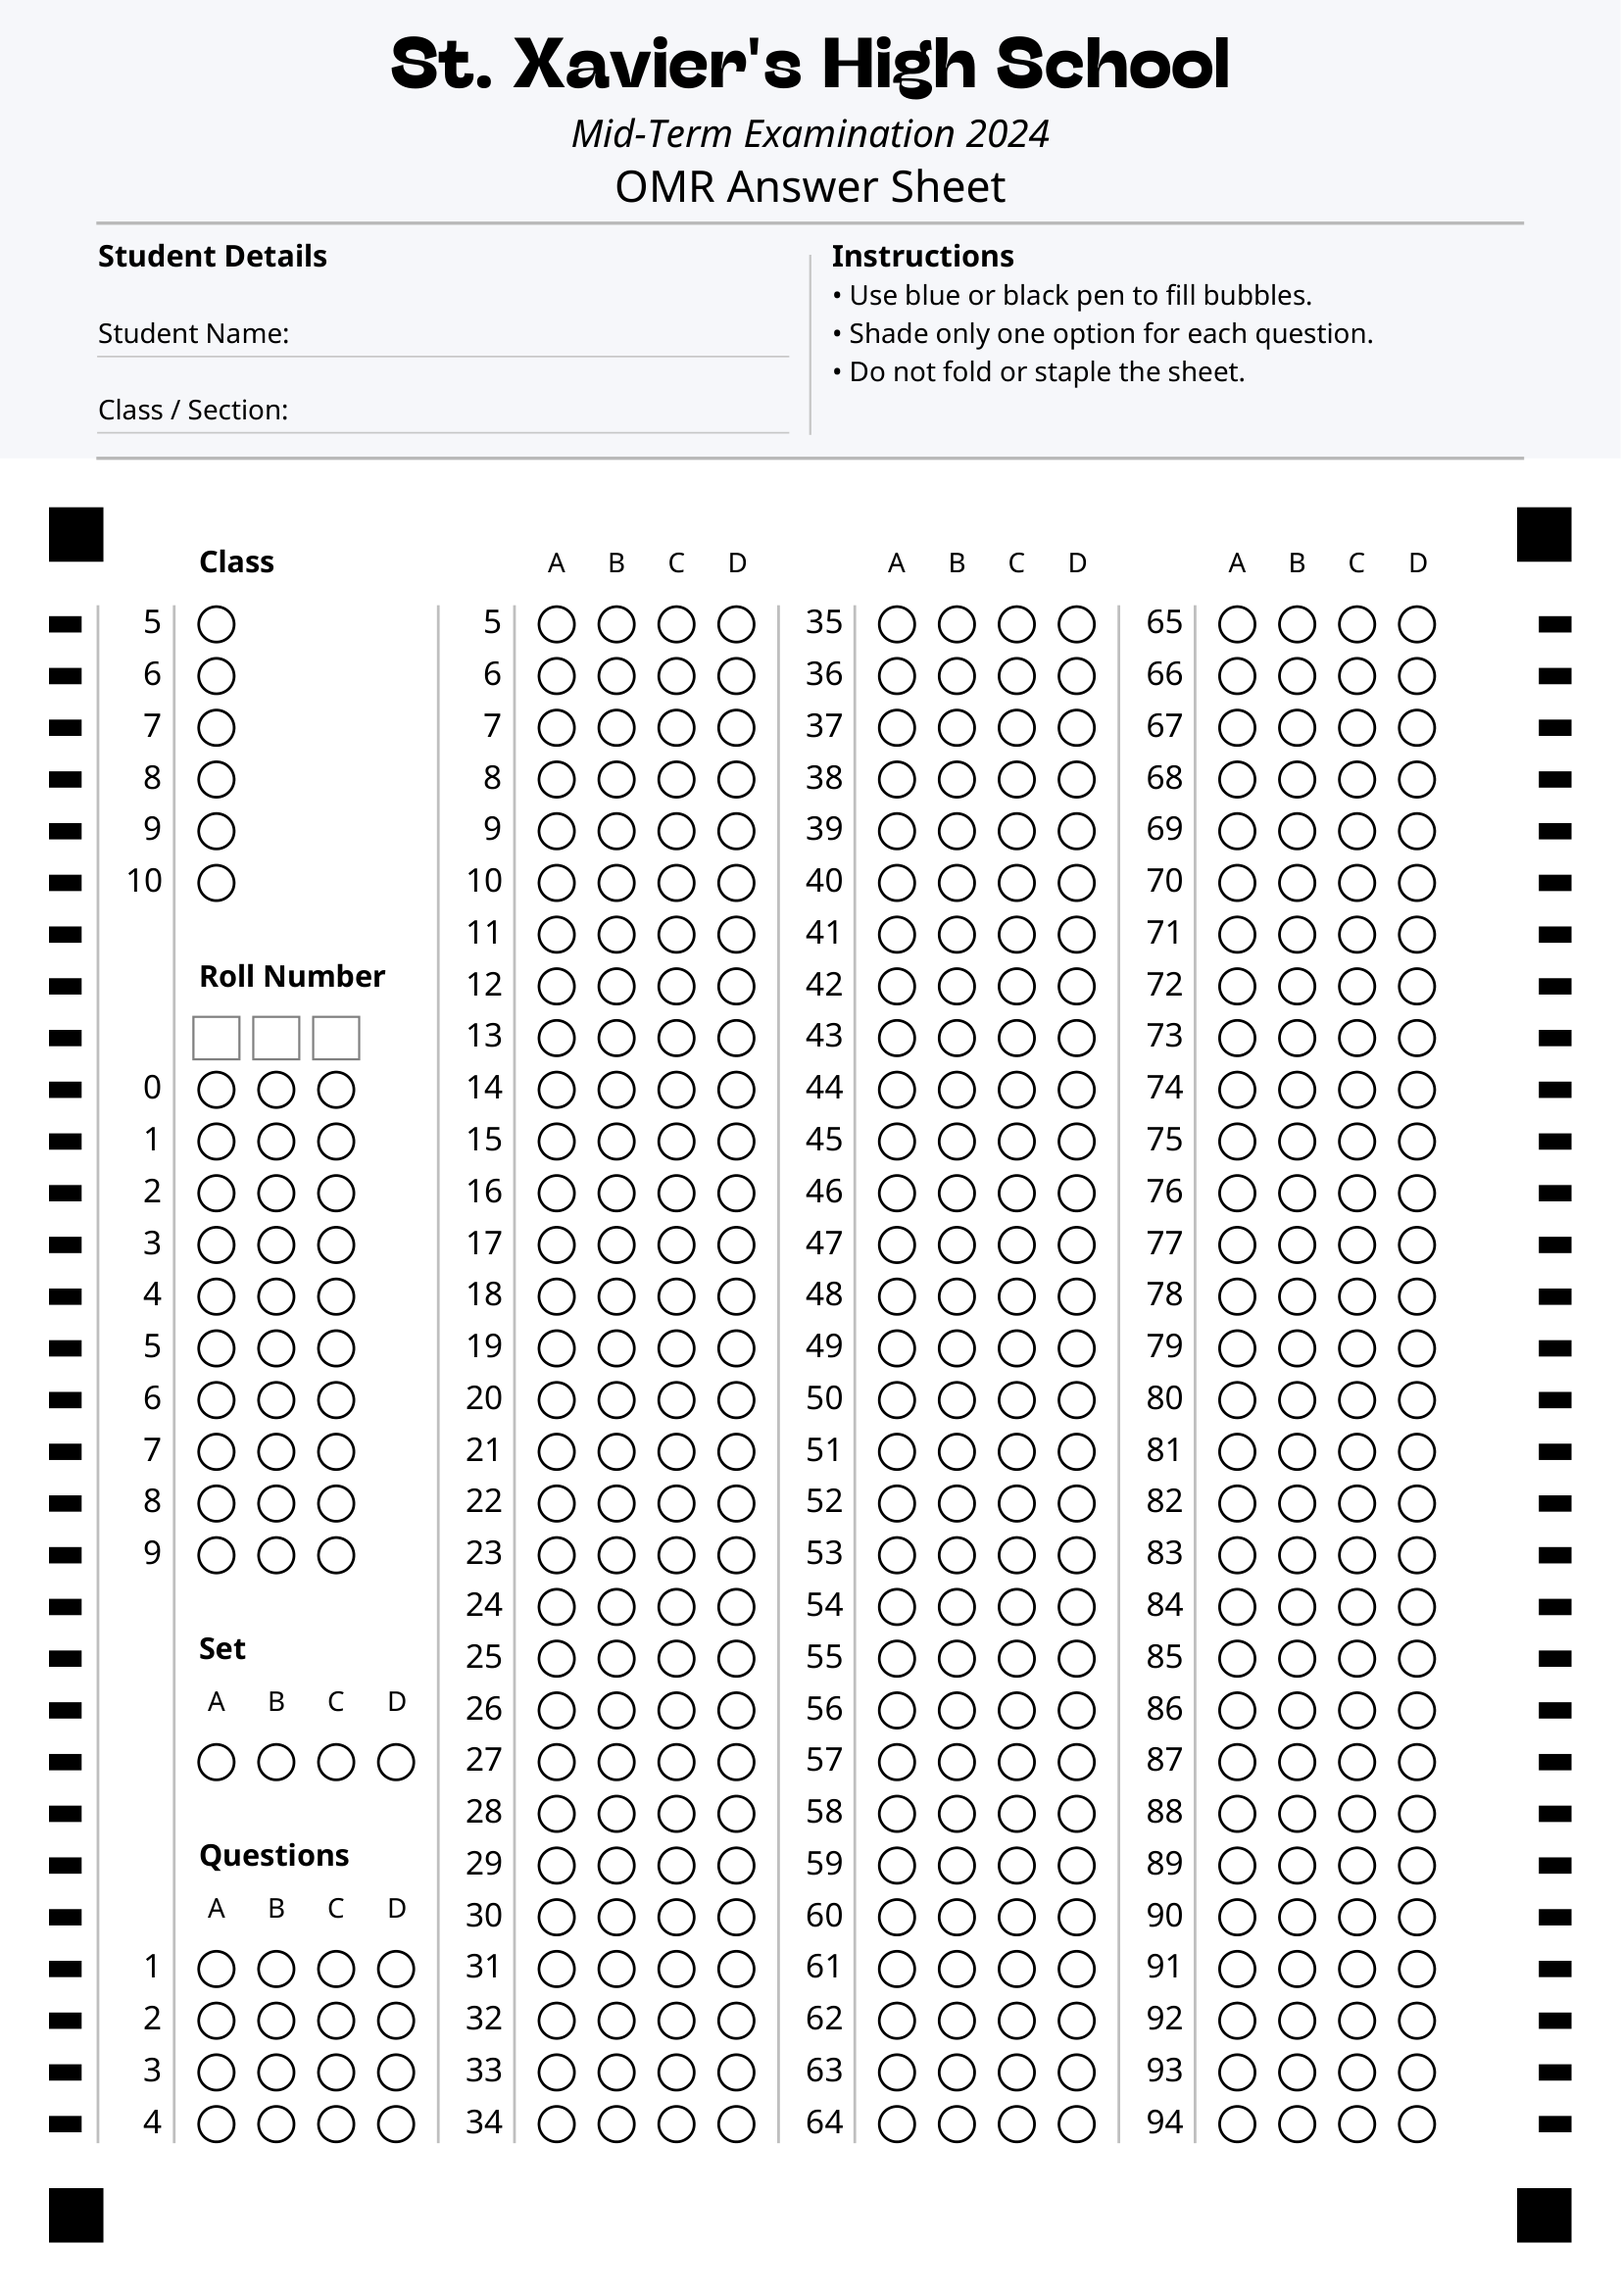
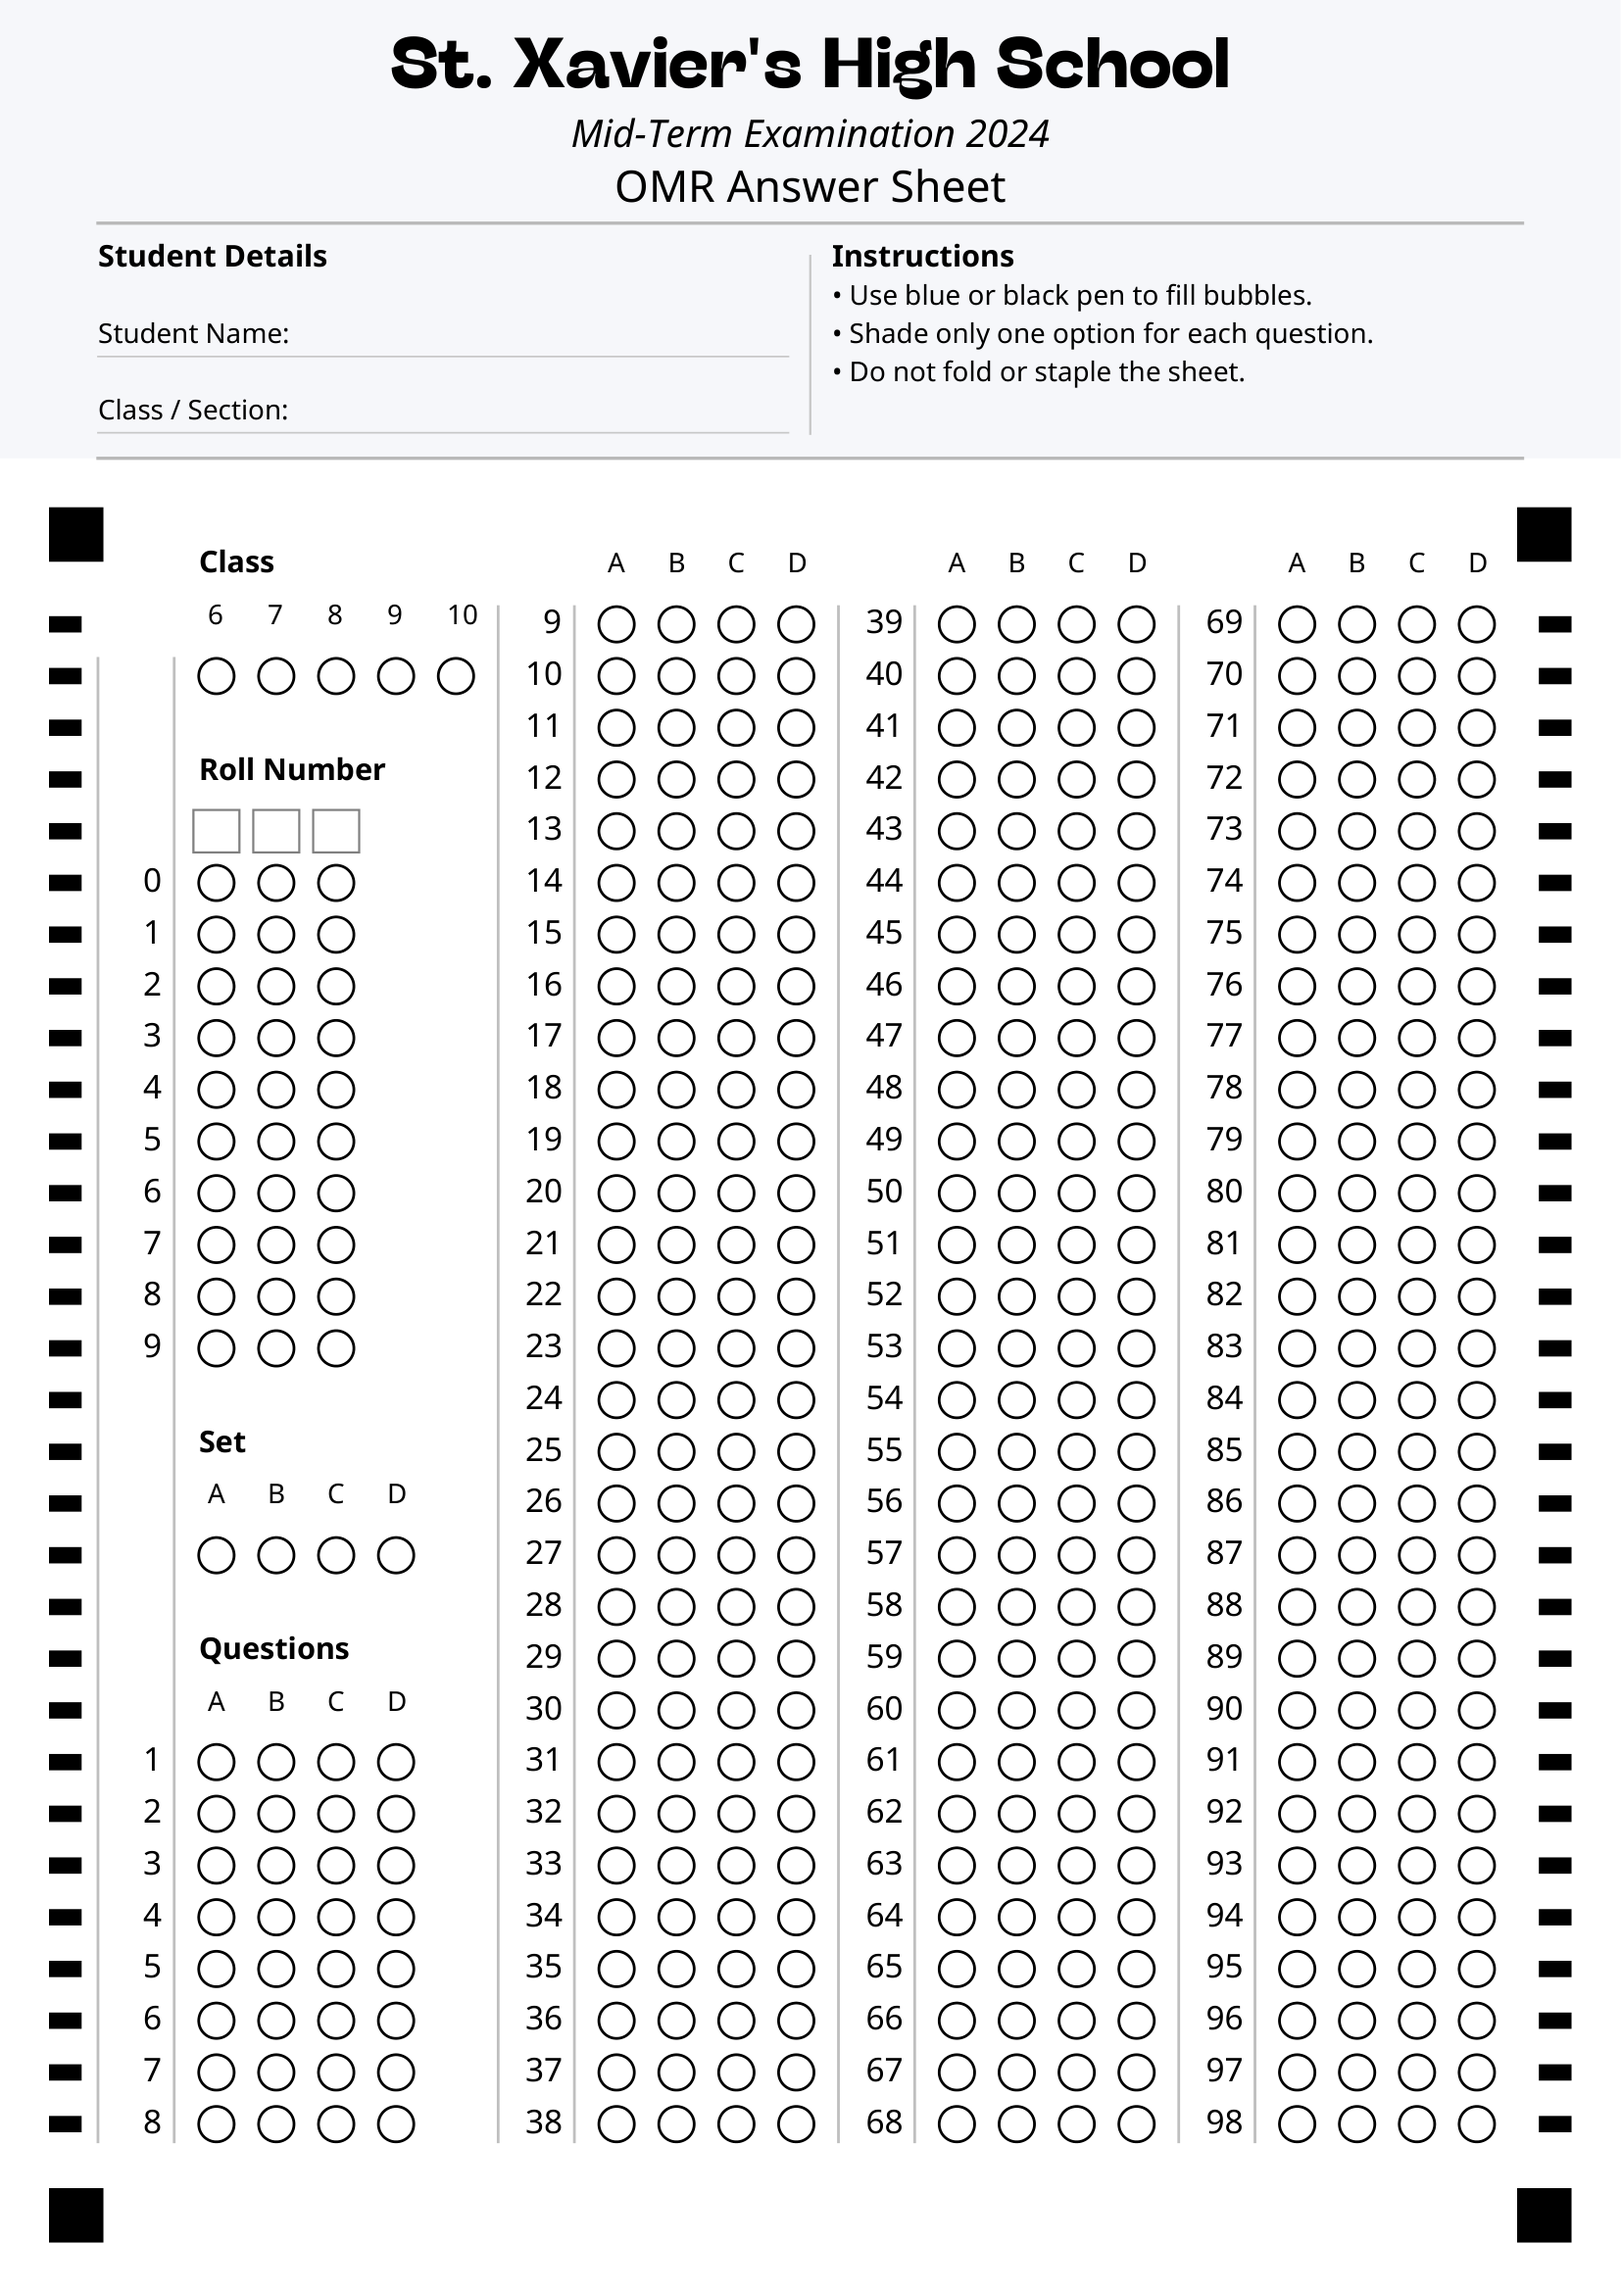
Convert Class section to horizontal layout and implement responsive columns
Changed Class section from vertical to horizontal layout:
- Class options now 6-10 (removed 5) displayed as single horizontal row
- Bubbles labeled with class numbers inside
- Frees ~4 rows in Column 1

Implemented responsive column width system:
- First column sized for max(Class=5, Roll=3, Set=4) = 5 bubbles
- Subsequent columns sized for Questions = 4 bubbles
- Dynamic overflow protection: columns added while space available
- Prevents overlap between Class section and adjacent columns

Results:
- 98 questions now fit (up from 94)
- No layout overlaps
- Optimal space utilization per column

diff --git a/omr_sheet_generator_new.py b/omr_sheet_generator_new.py
@@ -289,20 +289,31 @@ def draw_unified_bubble_section(
         row_centers.append(y)
         row_index += 1
 
-    # Calculate column width
-    max_options = max(1, sheet.roll_columns, 1, sheet.question_options)
-    column_width = layout.group_width(max_options)
+    # Calculate column widths (same logic as omr_layout.py)
+    first_column_options = max(sheet.class_options, sheet.roll_columns, sheet.set_options)
+    first_column_width = layout.group_width(first_column_options)
+    other_column_width = layout.group_width(sheet.question_options)
 
-    # Group bubbles by column
+    # Group bubbles by column and extract column origins
     columns: dict[int, List[BubbleGroup]] = {}
+    column_origins: dict[int, float] = {}
+
     for group in groups:
         col_idx = group.column_index or 0
         columns.setdefault(col_idx, []).append(group)
 
+        # Extract column origin from the first bubble in the group
+        if col_idx not in column_origins and group.bubbles:
+            # Calculate back from bubble x to column origin
+            first_bubble_x = group.bubbles[0].x
+            # Bubble x = column_origin + label_column_width + column_padding/2 + radius
+            column_origin = first_bubble_x - layout.radius - layout.column_padding / 2 - layout.label_column_width
+            column_origins[col_idx] = column_origin
+
     # Process each column
     for col_idx in sorted(columns.keys()):
         is_first_column = (col_idx == 0)
-        column_origin = geom.margin + col_idx * column_width
+        column_origin = column_origins.get(col_idx, geom.margin)
 
         # Get row allocations for this column
         row_allocations, _ = allocate_column_rows(section_specs, row_centers, is_first_column)
@@ -319,18 +330,32 @@ def draw_unified_bubble_section(
                 _text(pdf, geom, x_base, allocation.y_position, label_text)
 
             elif allocation.row_type == "headers":
-                # Draw option headers (A B C D)
+                # Draw option headers
                 pdf.set_font("Noto", size=10)
-                # Determine number of options based on section category
-                if allocation.section_category == "set":
-                    num_options = sheet.set_options
-                else:  # questions
-                    num_options = sheet.question_options
-                ascii_offsets = [chr(ord("A") + opt) for opt in range(num_options)]
                 x_bubble_base = x_base + layout.radius
-                for opt in range(num_options):
-                    x = x_bubble_base + opt * (layout.diameter + layout.option_gap)
-                    _text(pdf, geom, x - 3.25, allocation.y_position, ascii_offsets[opt])
+
+                # Determine headers based on section category
+                if allocation.section_category == "class":
+                    # Class headers: 6 7 8 9 10
+                    class_numbers = [6, 7, 8, 9, 10]
+                    for opt_idx, class_num in enumerate(class_numbers):
+                        x = x_bubble_base + opt_idx * (layout.diameter + layout.option_gap)
+                        # Center single digit under bubble
+                        _text(pdf, geom, x - 3.25, allocation.y_position, str(class_num))
+                elif allocation.section_category == "set":
+                    # Set headers: A B C D
+                    num_options = sheet.set_options
+                    ascii_offsets = [chr(ord("A") + opt) for opt in range(num_options)]
+                    for opt in range(num_options):
+                        x = x_bubble_base + opt * (layout.diameter + layout.option_gap)
+                        _text(pdf, geom, x - 3.25, allocation.y_position, ascii_offsets[opt])
+                else:  # questions
+                    # Question headers: A B C D
+                    num_options = sheet.question_options
+                    ascii_offsets = [chr(ord("A") + opt) for opt in range(num_options)]
+                    for opt in range(num_options):
+                        x = x_bubble_base + opt * (layout.diameter + layout.option_gap)
+                        _text(pdf, geom, x - 3.25, allocation.y_position, ascii_offsets[opt])
 
     # Draw write-in boxes for roll number
     if boxes:
@@ -367,7 +392,7 @@ def draw_unified_bubble_section(
     pdf.set_draw_color(192, 192, 192)
     pdf.set_line_width(1)
     for col, (min_y, max_y) in column_y_ranges.items():
-        column_origin = geom.margin + col * column_width
+        column_origin = column_origins.get(col, geom.margin)
         left_line_x = column_origin
         right_line_x = column_origin + layout.label_column_width
         _line(pdf, geom, left_line_x, min_y, left_line_x, max_y)
@@ -383,7 +408,8 @@ def draw_unified_bubble_section(
         if not group.bubbles:
             continue
 
-        column_origin = geom.margin + (group.column_index or 0) * column_width
+        col_idx = group.column_index or 0
+        column_origin = column_origins.get(col_idx, geom.margin)
         label_end_x = column_origin + layout.label_column_width - gap_before_bubble
 
         # Draw row label

diff --git a/omr_layout.py b/omr_layout.py
@@ -146,10 +146,11 @@ def build_section_specifications(sheet: SheetLayout) -> List[SectionSpec]:
         SectionSpec(
             category="class",
             label="Class",
-            bubble_rows=sheet.class_options,
+            bubble_rows=1,  # Single row with all options horizontal
             has_label_row=True,
             has_spacer_after=True,
-            has_special_row=False,
+            has_special_row=True,  # Number headers (6 7 8 9 10) above bubbles
+            special_row_position="before",
         ),
         SectionSpec(
             category="roll",
@@ -334,25 +335,41 @@ def generate_all_bubble_coordinates(
     if not row_centers:
         return [], [], 0
 
-    # Calculate column width based on the widest section
-    max_options = max(
-        1,  # class (single option per row)
-        sheet.roll_columns,
-        1,  # set (single option per row)
-        sheet.question_options
-    )
-    column_width = layout.group_width(max_options)
+    # Calculate column widths responsively
+    # First column needs to fit: Class(5), Roll(3), Set(4) → max = 5
+    first_column_options = max(sheet.class_options, sheet.roll_columns, sheet.set_options)
+    first_column_width = layout.group_width(first_column_options)
+
+    # Subsequent columns only have Questions(4)
+    other_column_width = layout.group_width(sheet.question_options)
+
     available_width = geom.width - 2 * geom.margin
-    num_columns = max(1, int(available_width // column_width))
 
     all_groups: List[BubbleGroup] = []
     all_boxes: List[BoxCoordinate] = []
     question_counter = 1
 
+    # Track column positions dynamically
+    column_positions: List[float] = []
+    current_x = geom.margin
+
+    # Add first column if it fits
+    if first_column_width <= available_width:
+        column_positions.append(current_x)
+        current_x += first_column_width
+    else:
+        # If even first column doesn't fit, we can't create any layout
+        print(f"Warning: First column width ({first_column_width:.1f}pt) exceeds available width ({available_width:.1f}pt)")
+        return [], [], 0
+
+    # Add subsequent columns while they fit
+    while current_x + other_column_width <= geom.margin + available_width:
+        column_positions.append(current_x)
+        current_x += other_column_width
+
     # Process each column
-    for col_idx in range(num_columns):
+    for col_idx, column_origin in enumerate(column_positions):
         is_first_column = (col_idx == 0)
-        column_origin = geom.margin + col_idx * column_width
 
         # Allocate rows for this column
         row_allocations, question_rows_in_col = allocate_column_rows(
@@ -410,13 +427,15 @@ def create_bubble_group_from_allocation(
 
     # Determine group index and label
     if allocation.section_category == "class":
-        class_num = 5 + allocation.bubble_group_index  # 5, 6, 7, 8, 9, 10
-        display_label = str(class_num)
-        group_index = allocation.bubble_group_index
-        # Single bubble
-        bubbles.append(
-            BubbleCoordinate(x=x_base, y=y, radius=layout.radius, label="•", index=0)
-        )
+        class_numbers = [6, 7, 8, 9, 10]  # Classes 6-10
+        display_label = ""  # No individual display label for horizontal layout
+        group_index = 0  # Single group for all class options
+        # Multiple bubbles horizontal (6, 7, 8, 9, 10)
+        for opt_idx, class_num in enumerate(class_numbers):
+            x = x_base + opt_idx * (layout.diameter + layout.option_gap)
+            bubbles.append(
+                BubbleCoordinate(x=x, y=y, radius=layout.radius, label=str(class_num), index=opt_idx)
+            )
 
     elif allocation.section_category == "roll":
         digit = str(allocation.bubble_group_index % 10)

diff --git a/omr_processor.py b/omr_processor.py
@@ -579,14 +579,30 @@ def overlay_labels(image: np.ndarray, group_samples: List[BubbleGroupSample]) ->
                 cv2.putText(output, text, (text_x, text_y), font, font_scale, (255, 0, 0), thickness)
 
         elif sample.group.category == "class":
-            # Class: Draw "Class" label above and class number (e.g., "5") next to bubble
+            # Class: Draw "Class" label above first bubble and class numbers inside bubbles
             first_detection = sample.detections[0]
-            label_text = f"Class {sample.group.display_label}"
+            label_text = "Class"
             font_scale = 0.35
             text_size = cv2.getTextSize(label_text, font, font_scale, thickness)[0]
             text_x = first_detection.bubble.x - text_size[0] // 2
             text_y = first_detection.bubble.y - first_detection.bubble.radius - 5
             cv2.putText(output, label_text, (text_x, text_y), font, font_scale, (0, 0, 255), thickness)
+
+            # Draw class number inside each bubble
+            for detection in sample.detections:
+                class_text = detection.layout.label
+                class_size = cv2.getTextSize(class_text, font, 0.4, thickness)[0]
+                text_x = detection.bubble.x - class_size[0] // 2
+                text_y = detection.bubble.y + class_size[1] // 2
+                cv2.putText(
+                    output,
+                    class_text,
+                    (text_x, text_y),
+                    font,
+                    0.4,
+                    (0, 128, 0),
+                    thickness,
+                )
 
         elif sample.group.category == "set":
             # Set: Draw "Set" label above first bubble and option letters inside bubbles

diff --git a/omr_config.py b/omr_config.py
@@ -69,7 +69,7 @@ class MarkerConfig:
 class SheetLayout:
     """Complete OMR sheet layout configuration."""
     # Class section (first in column)
-    class_options: int = 6  # Classes 5-10
+    class_options: int = 5  # Classes 6-10
 
     # Roll number section (second in column)
     roll_columns: int = 3
